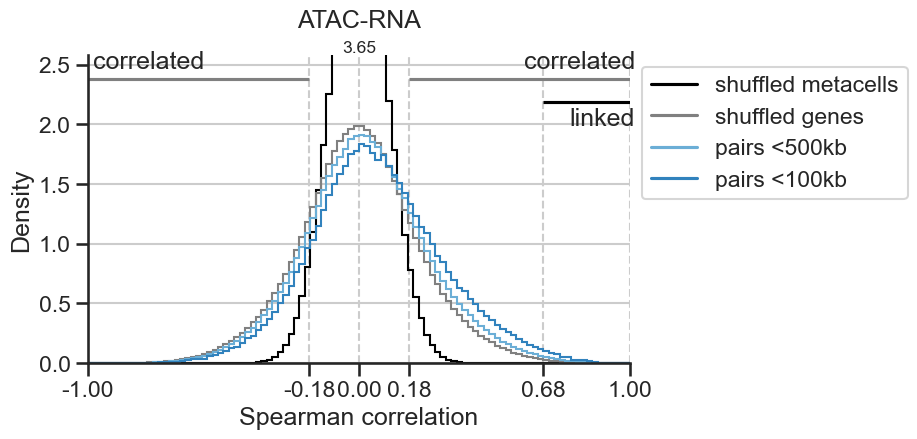
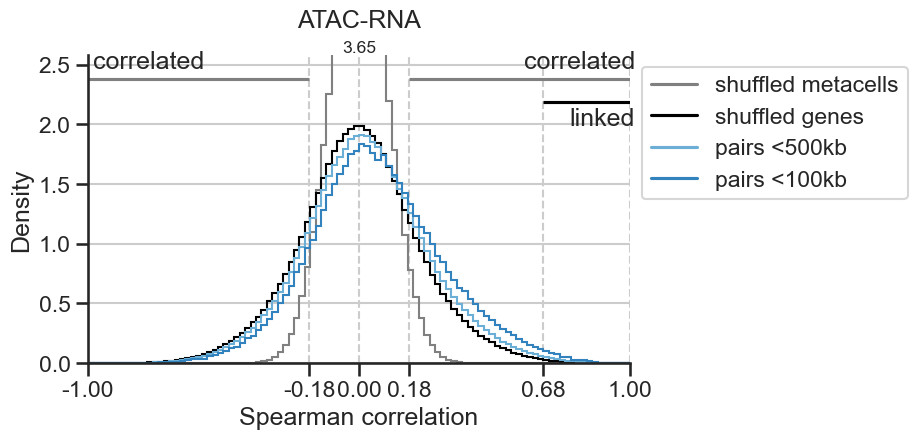
fix viz lables

diff --git a/robustlink/analysis.py b/robustlink/analysis.py
@@ -337,7 +337,7 @@ class CorrRes():
                       'pairs <500kb',
                       'pairs <100kb',
                       ]
-            colors = ['black', 'gray', self.lightcolor, self.color]
+            colors = ['gray', 'black', self.lightcolor, self.color]
             corr_tracks = [
                    res_corrs['corr_shuff_cells'].values,
                    res_corrs['corr_shuff'].values,
